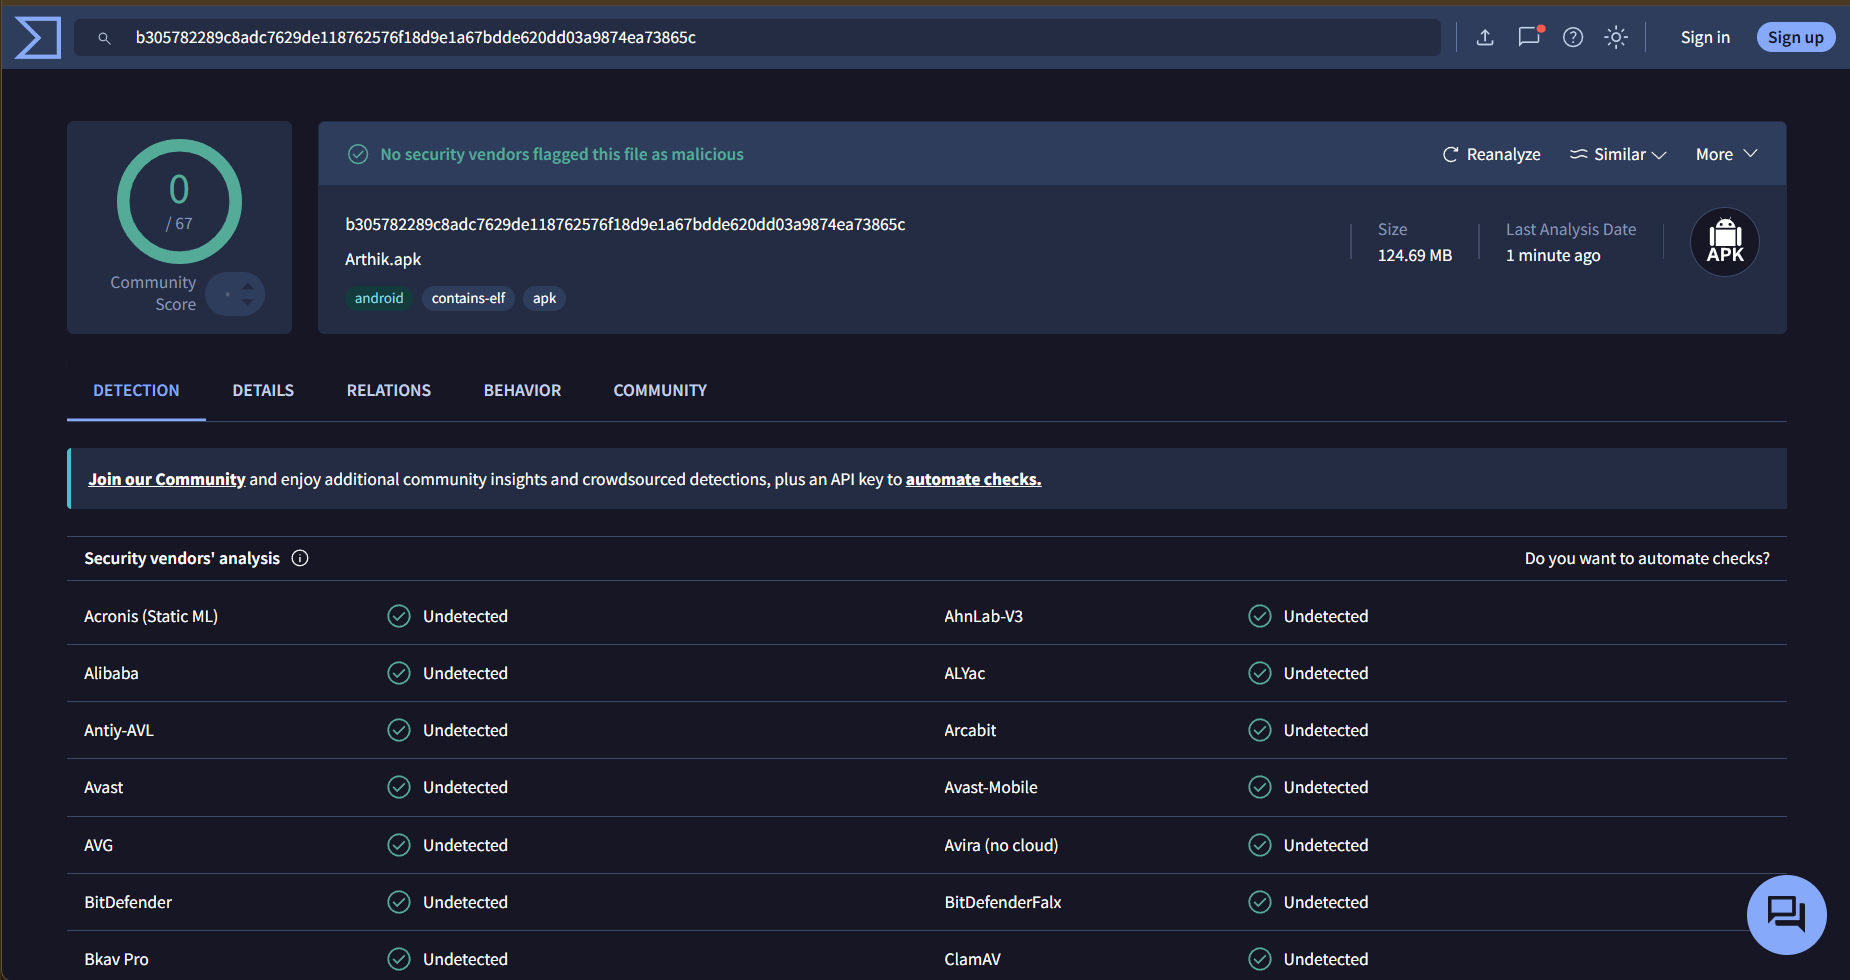
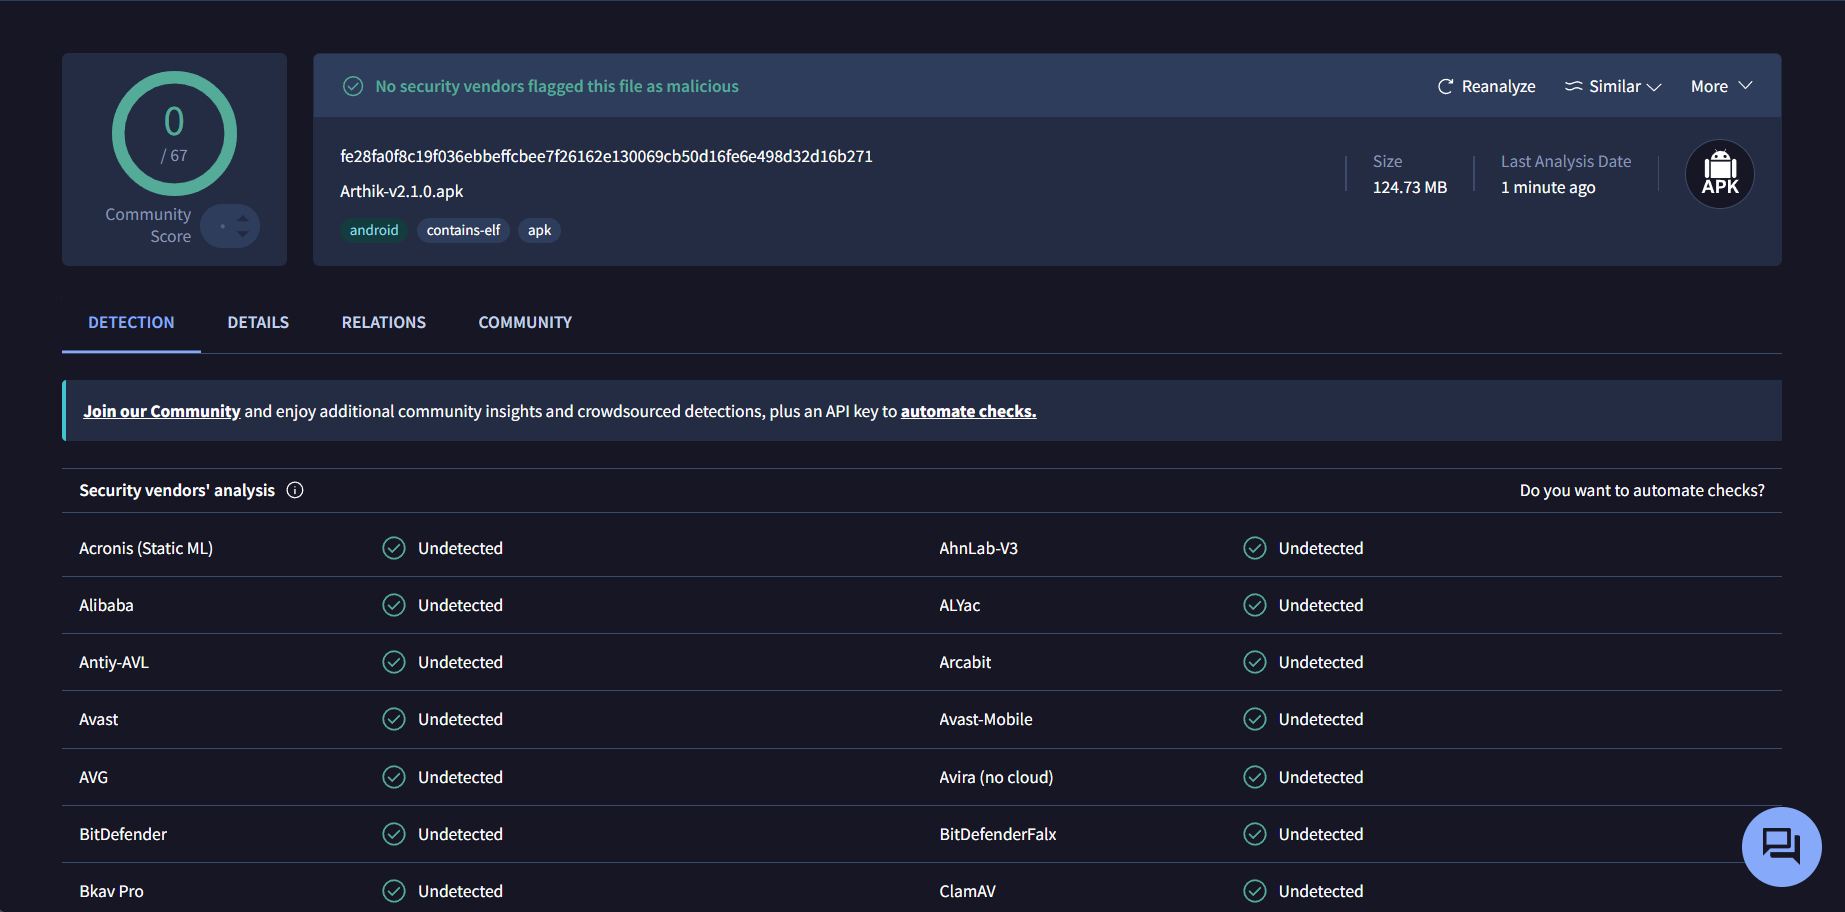
docs: VirusTotal scan for v2.1.0

diff --git a/README.md b/README.md
@@ -8,7 +8,7 @@
 [![TypeScript](https://img.shields.io/badge/TypeScript-Strict-blue.svg)](https://www.typescriptlang.org/)
 [![Supabase](https://img.shields.io/badge/Backend-Supabase-3ECF8E.svg)](https://supabase.com/)
 [![Version](https://img.shields.io/badge/Version-2.1.0-green.svg)](https://github.com/Kislaya-06/Arthik-App/releases/latest)
-[![VirusTotal](https://img.shields.io/badge/VirusTotal-0%2F67_Clean-brightgreen.svg?logo=virustotal)](https://www.virustotal.com/gui/file/b305782289c8adc7629de118762576f18d9e1a67bdde620dd03a9874ea73865c)
+[![VirusTotal](https://img.shields.io/badge/VirusTotal-0%2F67_Clean-brightgreen.svg?logo=virustotal)](https://www.virustotal.com/gui/file/fe28fa0f8c19f036ebbeffcbee7f26162e130069cb50d16fe6e498d32d16b271)
 [![Tests](https://img.shields.io/badge/Tests-1103_passing-brightgreen.svg)](./tests)
 [![License: MIT](https://img.shields.io/badge/License-MIT-yellow.svg)](https://opensource.org/licenses/MIT)
 
